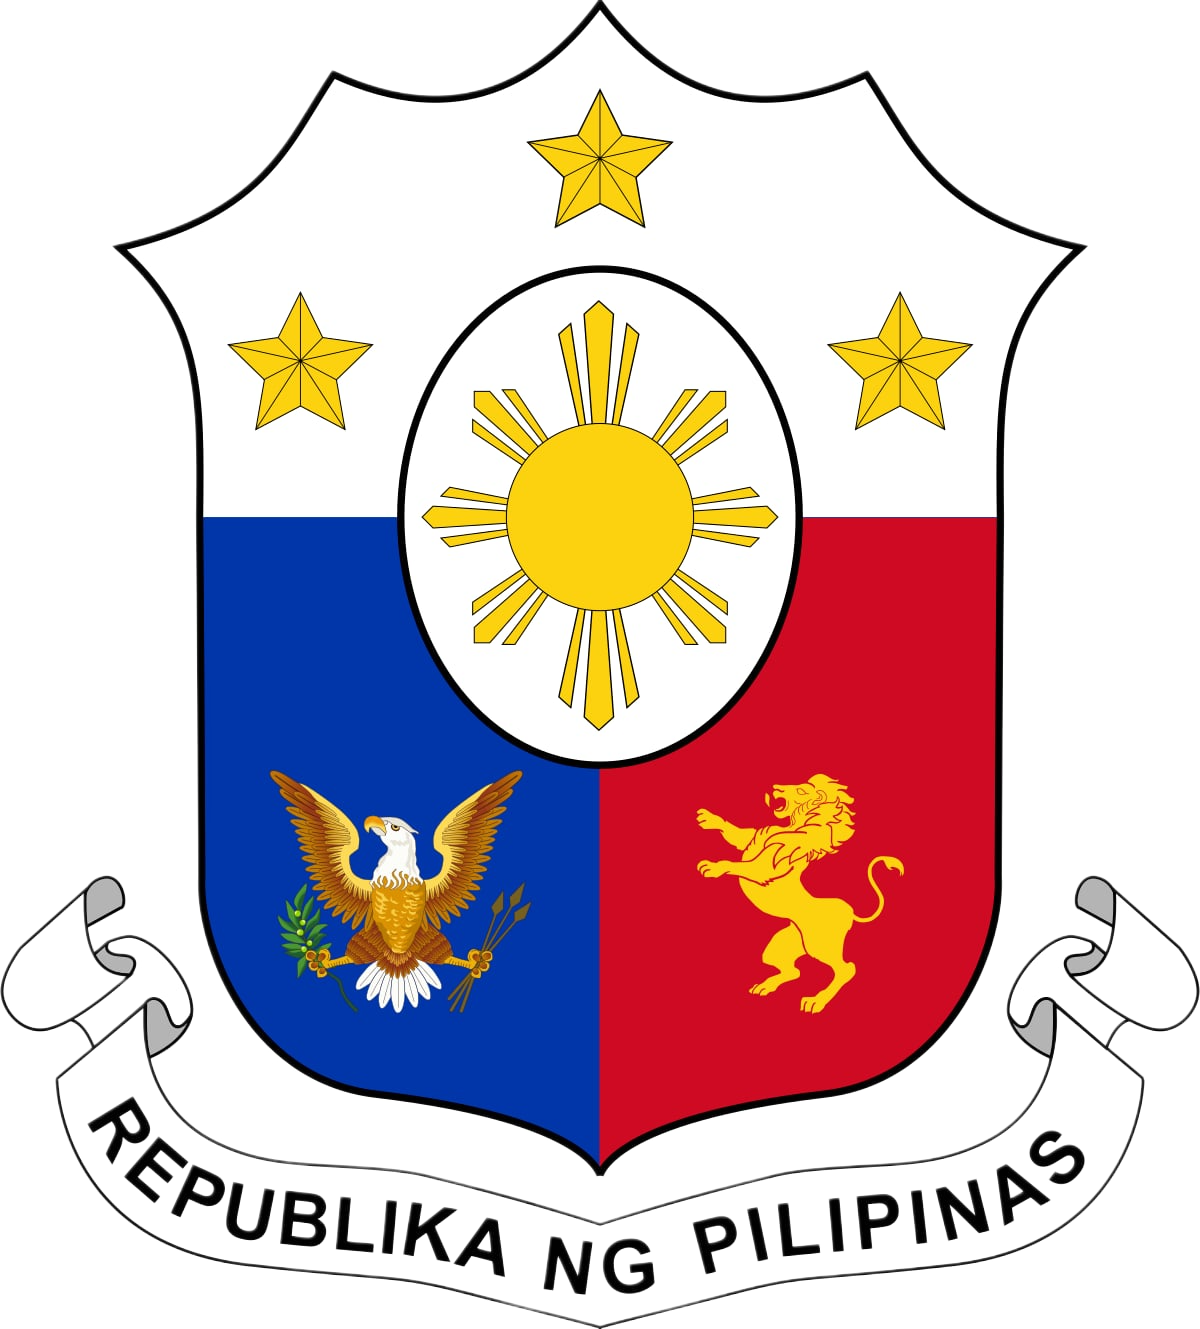
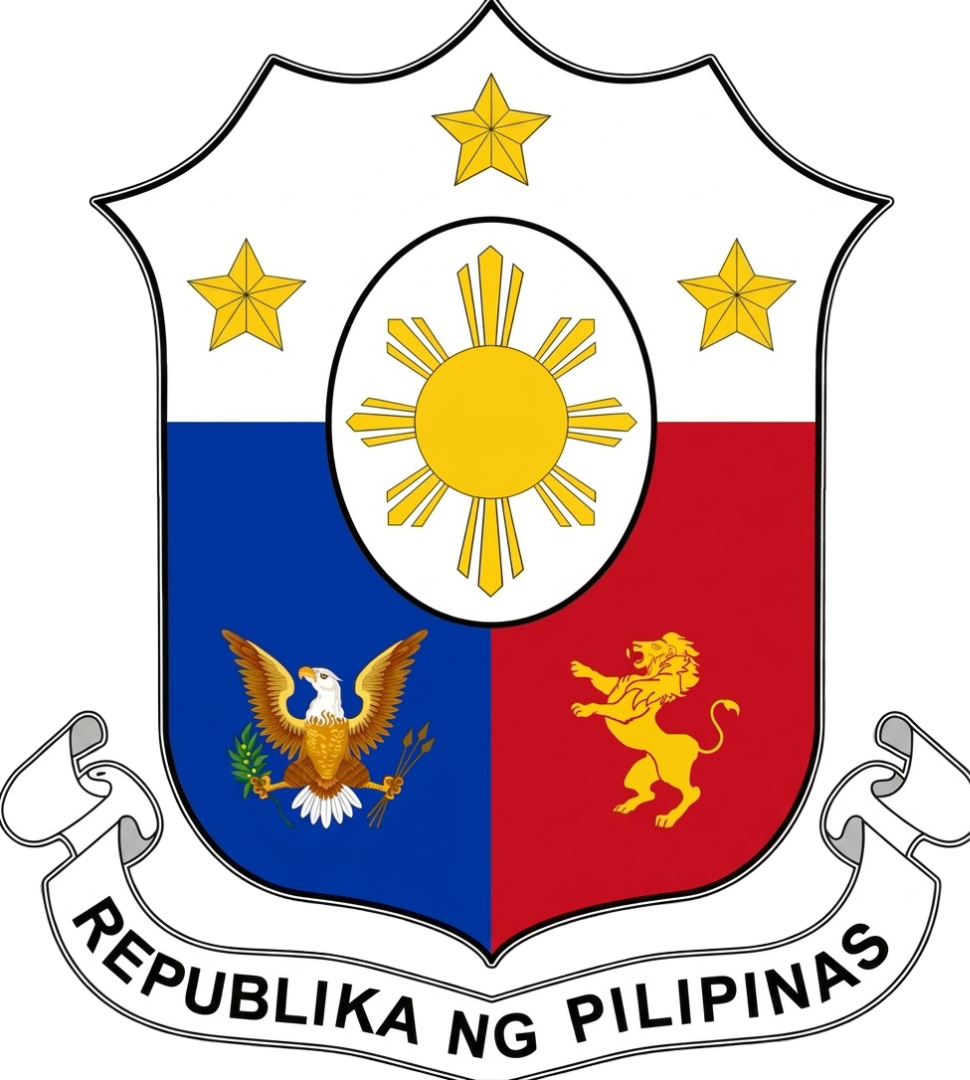
Fix: restore missing Capas National Shrine section and update PH seal

diff --git a/src/pages/Home.jsx b/src/pages/Home.jsx
@@ -11,6 +11,10 @@ import flag2 from '../assets/images/flagrites2.jpg'
 import flag3 from '../assets/images/flagrites3.jpg'
 import flag4 from '../assets/images/flagrites4.jpg'
 import flag5 from '../assets/images/flagrites5.jpg'
+import shrineImg from '../assets/images/shrine.png'
+import shrine1 from '../assets/images/shrine1.jfif'
+import shrine1png from '../assets/images/shrine1.png'
+import shrineHD from '../assets/images/shrine_hd.png'
 import pinatuboImg from '../assets/images/pinatubo.webp'
 import clarkImg from '../assets/images/clark.jpg'
 import hotline1 from '../assets/images/hotline1.jpg'
@@ -403,6 +407,77 @@ const Home = () => {
       </section>
 
 
+
+      {/* ======== NATIONAL TREASURES SECTION ======== */}
+      <section className="py-5" style={{ background: 'white' }}>
+        <Container className="py-5">
+          <Row className="align-items-center g-5">
+            {/* Treasure Image */}
+            <Col lg={6} className="scroll-animate scroll-left">
+              <div className="treasure-img-wrapper">
+                <div className="treasure-main-img shadow-lg">
+                  <img 
+                    src={shrineImg} 
+                    alt="Capas National Shrine" 
+                    className="w-100 h-100" 
+                    style={{ objectFit: 'cover' }}
+                  />
+                  <div className="img-overlay-accent"></div>
+                </div>
+                <div className="treasure-stats-float shadow-lg animate-fadeInUp">
+                  <div className="stat-item">
+                    <span className="stat-num">1991</span>
+                    <span className="stat-label">Inauguration</span>
+                  </div>
+                  <div className="stat-divider"></div>
+                  <div className="stat-item">
+                    <span className="stat-num">70m</span>
+                    <span className="stat-label">Height</span>
+                  </div>
+                </div>
+              </div>
+            </Col>
+
+            {/* Treasure Description */}
+            <Col lg={6} className="scroll-animate scroll-right">
+              <div className="ps-lg-4">
+                <h6 className="text-uppercase fw-bold ls-2 small mb-3" style={{ color: 'var(--primary)' }}>Capas Heritage</h6>
+                <h2 className="fw-bold mb-4" style={{ fontSize: '2.8rem', color: 'var(--gray-900)', lineHeight: '1.2' }}>
+                  The Capas National Shrine: <br />
+                  <span style={{ color: 'var(--primary)' }}>A National Treasure</span>
+                </h2>
+                <div className="heritage-text-content">
+                  <p className="lead fw-bold text-dark mb-3">
+                    A solemn monument dedicated to the brave Filipino and American soldiers of the Bataan Death March.
+                  </p>
+                  <p className="text-muted mb-4" style={{ lineHeight: '1.8' }}>
+                    The Capas National Shrine is a protected historical site in Tarlac that commemorates the sacrifices 
+                    of those who suffered during World War II. Its centerpiece, a towering 70-meter obelisk, serves 
+                    as a beacon of hope and a reminder of the indomitable human spirit.
+                  </p>
+                  <ul className="heritage-features-list list-unstyled mb-4">
+                    <li className="d-flex align-items-center mb-3">
+                      <div className="check-icon me-3">✓</div>
+                      <span><strong>Historical Landmark:</strong> Recognized as a major WWII memorial in Southeast Asia.</span>
+                    </li>
+                    <li className="d-flex align-items-center mb-3">
+                      <div className="check-icon me-3">✓</div>
+                      <span><strong>Cultural Significance:</strong> A symbol of peace, bravery, and national identity.</span>
+                    </li>
+                    <li className="d-flex align-items-center">
+                      <div className="check-icon me-3">✓</div>
+                      <span><strong>Tourism Pillar:</strong> One of the most visited historical landmarks in Tarlac.</span>
+                    </li>
+                  </ul>
+                  <Button as="a" href="https://www.scribd.com/presentation/388411446/Capas-National-Shrine-Philippine-History" target="_blank" rel="noopener noreferrer" className="btn-primary-red py-3 px-5">
+                    Discover More
+                  </Button>
+                </div>
+              </div>
+            </Col>
+          </Row>
+        </Container>
+      </section>
 
       {/* ======== MOUNT PINATUBO SECTION ======== */}
       <section className="py-5" style={{ background: 'var(--gray-100)' }}>
